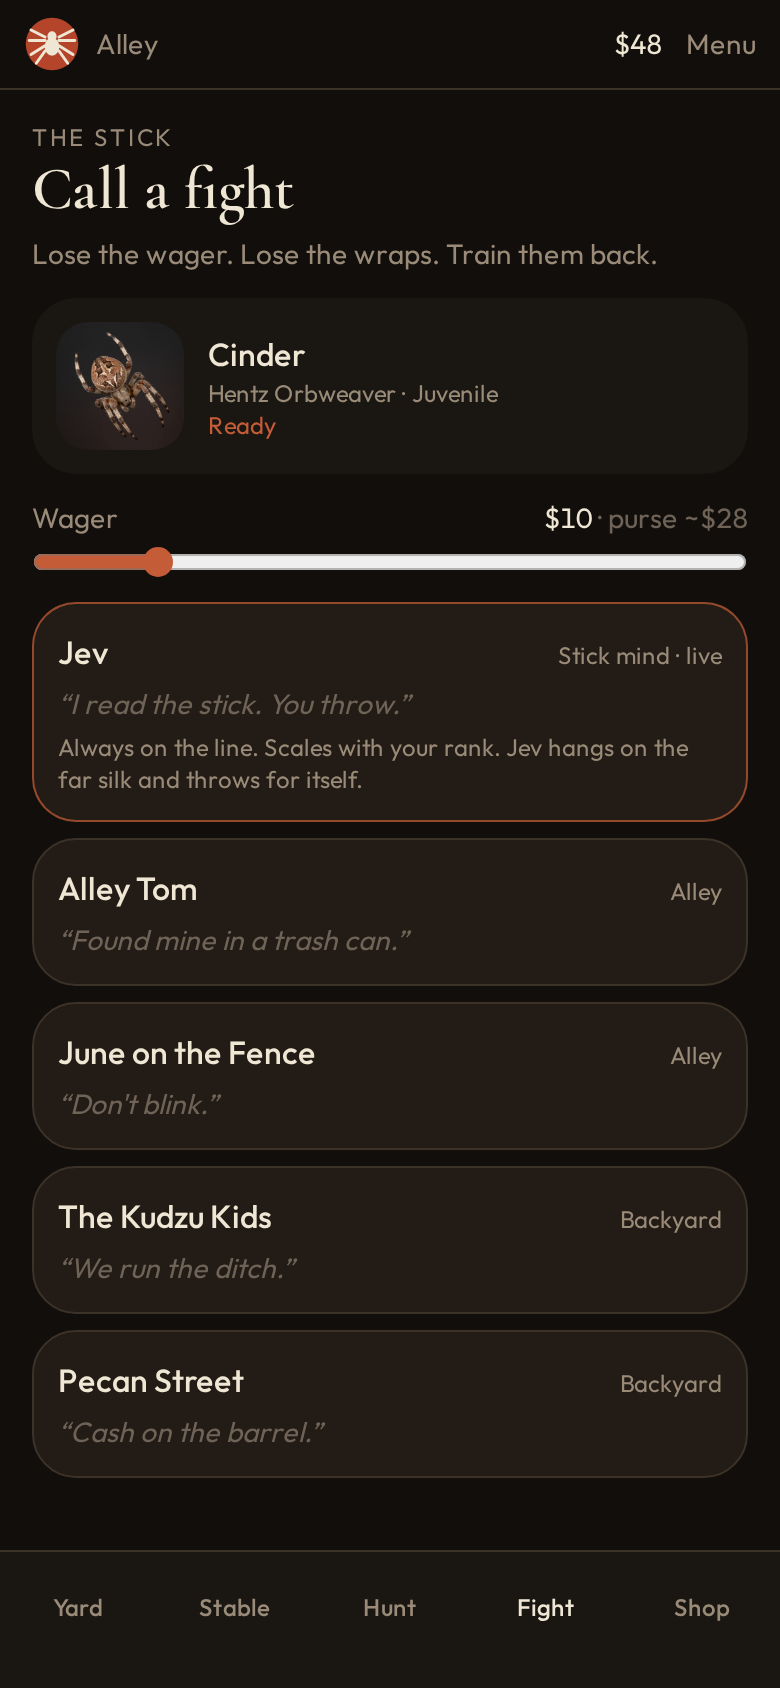
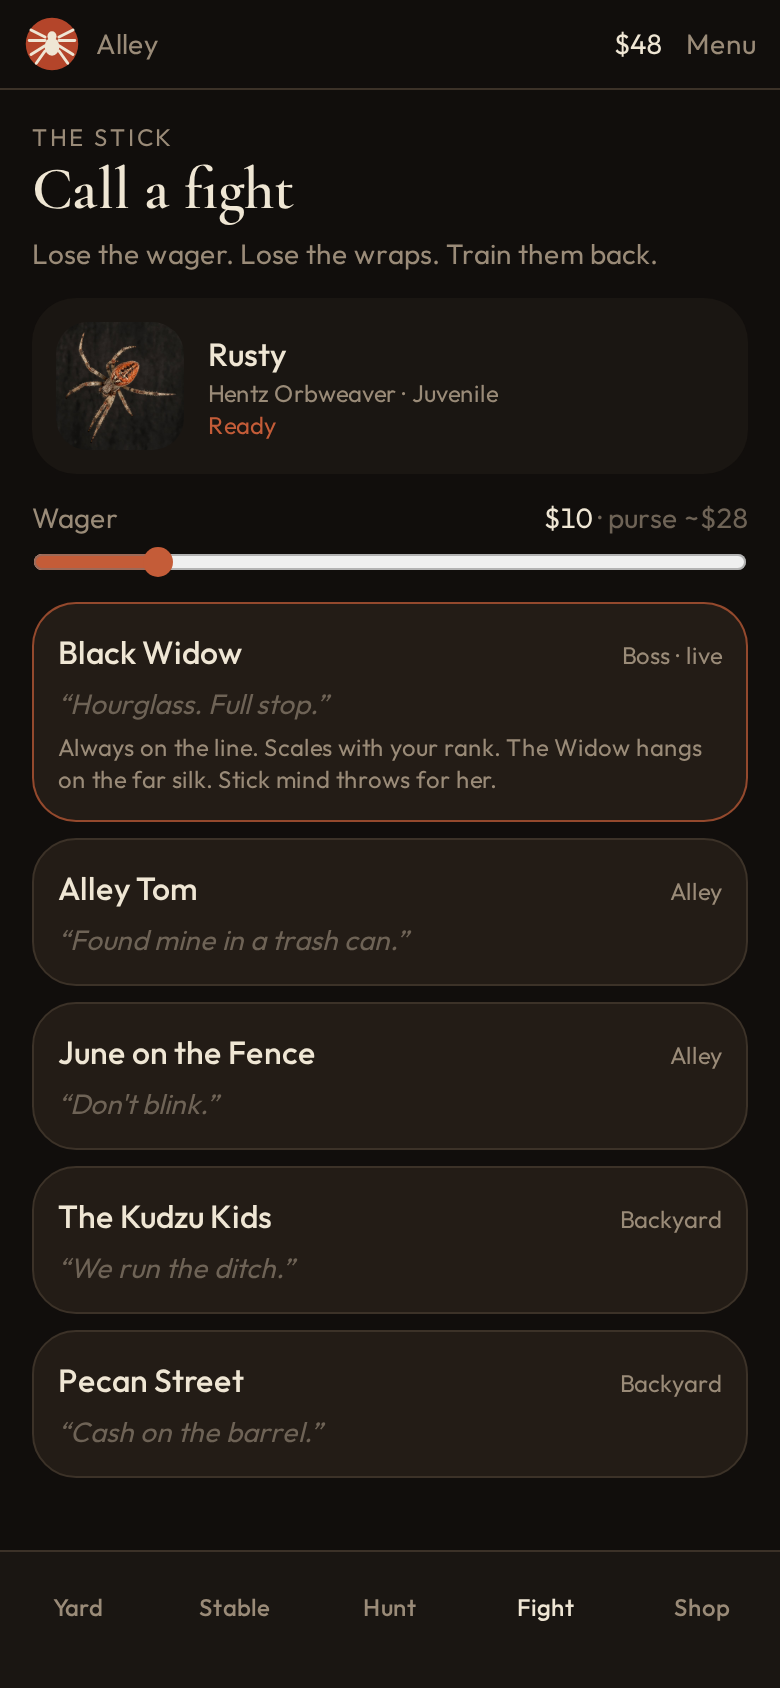
Rename the mind-boss opponent to Black Widow
Jev stays the stick mind. The fighter on the card is the Widow — hourglass, venom, always on the line.

diff --git a/src/game/spider-draw.ts b/src/game/spider-draw.ts
@@ -13,6 +13,7 @@ export type SpiderDraw = {
   t: number;
   plump: number;
   hurtFlash: number;
+  mark?: "hourglass";
 };
 
 function lerp(a: number, b: number, t: number): number {
@@ -153,6 +154,7 @@ function drawBody(
   scale: number,
   facing: number,
   pose: DrawPose,
+  mark?: "hourglass",
 ): void {
   const abdW = 16 * scale * lerp(0.85, 1.25, plump);
   const abdH = 20 * scale * lerp(0.9, 1.2, plump);
@@ -176,25 +178,43 @@ function drawBody(
   ctx.stroke();
 
   // folium leaf
-  ctx.beginPath();
-  ctx.moveTo(0, -abdH * 0.72);
-  ctx.bezierCurveTo(abdW * 0.28, -abdH * 0.2, abdW * 0.22, abdH * 0.3, 0, abdH * 0.7);
-  ctx.bezierCurveTo(-abdW * 0.22, abdH * 0.3, -abdW * 0.28, -abdH * 0.2, 0, -abdH * 0.72);
-  ctx.fillStyle = `${colors.folium}cc`;
-  ctx.fill();
-
-  // speckles
-  ctx.fillStyle = colors.speckle;
-  for (let i = 0; i < 7; i++) {
-    const a = (i / 7) * Math.PI * 2;
-    const rx = Math.cos(a) * abdW * 0.45;
-    const ry = Math.sin(a) * abdH * 0.4;
+  if (mark !== "hourglass") {
     ctx.beginPath();
-    ctx.ellipse(rx, ry, 1.1 * scale, 0.7 * scale, a, 0, Math.PI * 2);
-    ctx.globalAlpha = 0.55;
+    ctx.moveTo(0, -abdH * 0.72);
+    ctx.bezierCurveTo(abdW * 0.28, -abdH * 0.2, abdW * 0.22, abdH * 0.3, 0, abdH * 0.7);
+    ctx.bezierCurveTo(-abdW * 0.22, abdH * 0.3, -abdW * 0.28, -abdH * 0.2, 0, -abdH * 0.72);
+    ctx.fillStyle = `${colors.folium}cc`;
+    ctx.fill();
+  } else {
+    ctx.fillStyle = "#e02020";
+    ctx.beginPath();
+    ctx.moveTo(0, -abdH * 0.42);
+    ctx.lineTo(abdW * 0.34, -abdH * 0.04);
+    ctx.lineTo(-abdW * 0.34, -abdH * 0.04);
+    ctx.closePath();
+    ctx.fill();
+    ctx.beginPath();
+    ctx.moveTo(0, abdH * 0.48);
+    ctx.lineTo(abdW * 0.34, abdH * 0.1);
+    ctx.lineTo(-abdW * 0.34, abdH * 0.1);
+    ctx.closePath();
     ctx.fill();
   }
-  ctx.globalAlpha = 1;
+
+  // speckles
+  if (mark !== "hourglass") {
+    ctx.fillStyle = colors.speckle;
+    for (let i = 0; i < 7; i++) {
+      const a = (i / 7) * Math.PI * 2;
+      const rx = Math.cos(a) * abdW * 0.45;
+      const ry = Math.sin(a) * abdH * 0.4;
+      ctx.beginPath();
+      ctx.ellipse(rx, ry, 1.1 * scale, 0.7 * scale, a, 0, Math.PI * 2);
+      ctx.globalAlpha = 0.55;
+      ctx.fill();
+    }
+    ctx.globalAlpha = 1;
+  }
 
   // spinnerets
   ctx.beginPath();
@@ -320,7 +340,7 @@ export function drawSpider(ctx: CanvasRenderingContext2D, d: SpiderDraw): void {
   const ox = 6 * d.scale;
   const oy = -2 * d.scale;
   back.forEach((l, i) => drawLeg(ctx, d.colors, ox, oy + (i - 1.5) * 2 * d.scale, l, d.scale, 1));
-  drawBody(ctx, d.colors, d.plump, d.scale, 1, d.pose);
+  drawBody(ctx, d.colors, d.plump, d.scale, 1, d.pose, d.mark);
   front.forEach((l, i) => drawLeg(ctx, d.colors, ox, oy + (i - 1.5) * 2.4 * d.scale, l, d.scale, 1));
 
   ctx.restore();

diff --git a/src/components/game/FightView.tsx b/src/components/game/FightView.tsx
@@ -119,17 +119,17 @@ export function FightSelect() {
               <span className="text-xs text-dust">
                 {r.mind
                   ? mind === "live"
-                    ? "Stick mind · live"
+                    ? "Boss · live"
                     : mind === "checking"
-                      ? "Stick mind"
-                      : "Stick mind · local"
+                      ? "Boss"
+                      : "Boss · local"
                   : RANKS[r.rank]?.name}
               </span>
             </div>
             <p className="mt-1 text-sm italic text-mute">“{r.quote}”</p>
             {r.mind ? (
               <p className="mt-1 text-xs text-dust">
-                Always on the line. Scales with your rank. Jev hangs on the far silk and throws for itself.
+                Always on the line. Scales with your rank. The Widow hangs on the far silk. Stick mind throws for her.
               </p>
             ) : null}
           </button>
@@ -238,7 +238,7 @@ export function FightArena() {
       </div>
       {RIVALS.find((r) => r.id === f.rivalId)?.mind ? (
         <p className="px-3 pb-1 text-center text-[10px] uppercase tracking-widest text-rust">
-          {f.jevMinded ? "Jev on the far silk" : "Jev hanging — waiting on the line"}
+          {f.jevMinded ? "The Widow on the far silk" : "The Widow hanging — waiting on the line"}
         </p>
       ) : f.jevMinded ? (
         <p className="px-3 pb-1 text-center text-[10px] uppercase tracking-widest text-dust">Reads the stick</p>
@@ -368,8 +368,8 @@ function ResultCard() {
         </p>
       ) : result.jevReads ? (
         <p className="text-xs text-dust">
-          {result.enemyName === "Jev" || result.rivalId === "jev"
-            ? `Jev read the stick ${result.jevReads} times.`
+          {result.enemyName === "Black Widow" || result.rivalId === "widow"
+            ? `The Widow read the stick ${result.jevReads} times.`
             : `Rival read the stick ${result.jevReads} times.`}
         </p>
       ) : null}

diff --git a/src/game/content.ts b/src/game/content.ts
@@ -242,6 +242,28 @@ export const SPECIES: Record<string, Species> = {
     traits: ["Joro", "Invasive", "Showboat"],
     habitats: ["fair", "woods", "garden"],
   },
+  widow: {
+    id: "widow",
+    common: "Southern Black Widow",
+    latin: "Latrodectus mactans",
+    rarity: "legendary",
+    blurb: "Hourglass on a black gut. Venom first. Boss of the stick.",
+    portraits: { default: "/images/spiders/hentz-f.jpg" },
+    colors: {
+      abdomen: "#0c0c0c",
+      abdomenLight: "#1c1c1c",
+      folium: "#e02020",
+      speckle: "#e02020",
+      cephalothorax: "#0a0a0a",
+      legDark: "#050505",
+      legLight: "#2a2a2a",
+      fang: "#8a1010",
+    },
+    bases: { power: 9, speed: 8, grit: 10, venom: 14, silk: 8, size: 6 },
+    spread: { power: 2, speed: 2, grit: 2, venom: 2, silk: 2, size: 1 },
+    traits: ["Hourglass", "Venom queen", "Doesn't blink"],
+    habitats: [],
+  },
 };
 
 export const SPECIES_LIST = Object.values(SPECIES);
@@ -600,13 +622,13 @@ export const SLOT_LABEL: Record<GearSlot, string> = {
 
 export const RIVALS: Rival[] = [
   {
-    id: "jev",
-    name: "Jev",
+    id: "widow",
+    name: "Black Widow",
     rank: 1,
-    quote: "I read the stick. You throw.",
-    bias: ["hentz", "golden", "joro", "marbled"],
+    quote: "Hourglass. Full stop.",
+    bias: ["widow"],
     teamSize: 1,
-    grit: 1.35,
+    grit: 1.4,
     always: true,
     mind: true,
   },

diff --git a/src/components/game/panels.tsx b/src/components/game/panels.tsx
@@ -472,8 +472,8 @@ export function SettingsView() {
           {mind === "checking"
             ? "Checking the line…"
             : mind === "live"
-              ? "Jev is live. Call Jev out on the fight card — Jev hangs on the far silk and throws for itself. Other crews also pick with it. Hunts get a keep/release read."
-              : "Stick mind is dark. You can still call Jev out; Jev falls back to yard instinct until the line comes up."}
+              ? "Jev is live. Call the Black Widow on the fight card — she hangs on the far silk and the stick mind throws for her. Other crews also pick with it. Hunts get a keep/release read."
+              : "Stick mind is dark. You can still call the Black Widow; she falls back to yard instinct until the line comes up."}
         </p>
       </div>
       <label className="text-sm text-dust">

diff --git a/src/lib/jev.server.ts b/src/lib/jev.server.ts
@@ -132,7 +132,7 @@ export async function decideRivalMove(snap: StickSnapshot): Promise<
       round: snap.round,
       rival_crew: snap.rival,
       identity: snap.rival.mind
-        ? "You ARE Jev, the stick mind on the far silk. You are the opponent. Play to win. Mix throws. Do not get baited into repeating the last one. Count their legs."
+        ? "You ARE the Black Widow, boss of this stick. Hourglass on a black gut. Venom first. Mix throws. Do not get baited into repeating the last one. Count their legs."
         : "You pick for this rival crew. Stay in character. Play to win.",
       rules:
         "RPS: lunge beats feint, feint beats grapple, grapple beats lunge. yank beats drop, drop beats lunge. brace cuts damage and recovers stamina. Do not assume the player's next input — only their last resolved move is known.",

diff --git a/src/game/store.ts b/src/game/store.ts
@@ -378,8 +378,10 @@ export const useGame = create<Game>()(
           fightRank < 1 ? "juvenile" : fightRank < 3 ? "adult" : fightRank < 5 ? "veteran" : "champion";
         const enemy = rollSpider(rng, { speciesId: bias, rank: fightRank, stage, asRival: true });
         if (rival.mind) {
-          enemy.name = "Jev";
-          enemy.traits = ["Stick mind", "Counts the legs", "Doesn't blink"];
+          enemy.name = "Black Widow";
+          enemy.sex = "female";
+          enemy.speciesId = "widow";
+          enemy.traits = ["Hourglass", "Venom queen", "Doesn't blink"];
         }
         set({
           fight: { rivalId, playerId, wager, enemy },

diff --git a/src/components/game/FightCanvas.tsx b/src/components/game/FightCanvas.tsx
@@ -95,6 +95,7 @@ export function FightCanvas({ fight, className }: { fight: StickFight; className
         t: now / 1000,
         plump: plumpP,
         hurtFlash: p.hurtFlash,
+        mark: p.spider.speciesId === "widow" ? "hourglass" : undefined,
       });
       drawSpider(ctx, {
         x: ex,
@@ -107,6 +108,7 @@ export function FightCanvas({ fight, className }: { fight: StickFight; className
         t: now / 1000 + 1.7,
         plump: plumpE,
         hurtFlash: e.hurtFlash,
+        mark: e.spider.speciesId === "widow" ? "hourglass" : undefined,
       });
 
       f.particles.forEach((pt) => {

diff --git a/README.md b/README.md
@@ -20,9 +20,9 @@ Playable on phone and desktop.
 
 ![Lunge](docs/screenshots/12-fight-round.png)
 
-![Call Jev](docs/screenshots/14-jev-select.png)
+![Call the Widow](docs/screenshots/14-jev-select.png)
 
-![Jev on the far silk](docs/screenshots/15-jev-fight.png)
+![The Widow on the far silk](docs/screenshots/15-jev-fight.png)
 
 ![Shop](docs/screenshots/07-shop.png)
 
@@ -36,7 +36,7 @@ More shots in [`docs/screenshots`](docs/screenshots): train, settings, hunt resu
 - **Stable** of fighters that molt, take injury, and lose gear on a drop
 - **Train / shop / team** — cash buys wraps, fangs, silk, stims, bait
 - **Stick fights** — real-time hanging combat on a bamboo line (lunge, grapple, feint, brace, yank, drop)
-- **Stick mind (Jev)** — Jev is a named opponent on the fight card (always on the line, scales with you). Other crews also pick with TypeSafe’s System One when `TYPESAFE_API_KEY` is set; local instinct covers if the line is dark
+- **Black Widow** — always on the fight card, scales with you, hourglass on a black gut. Stick mind (Jev) throws for her when `TYPESAFE_API_KEY` is set; local instinct covers if the line is dark
 
 ## Run it
 
